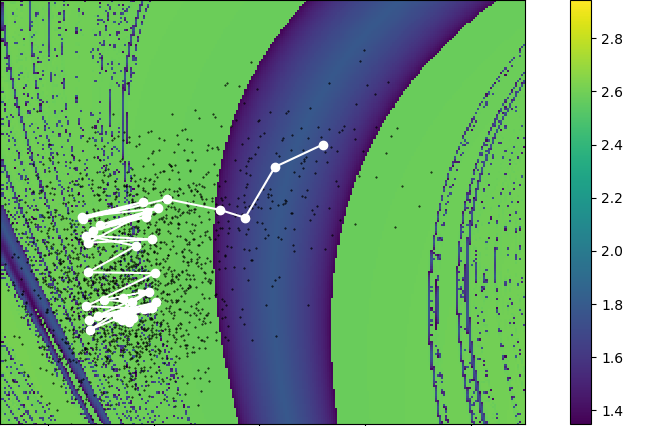
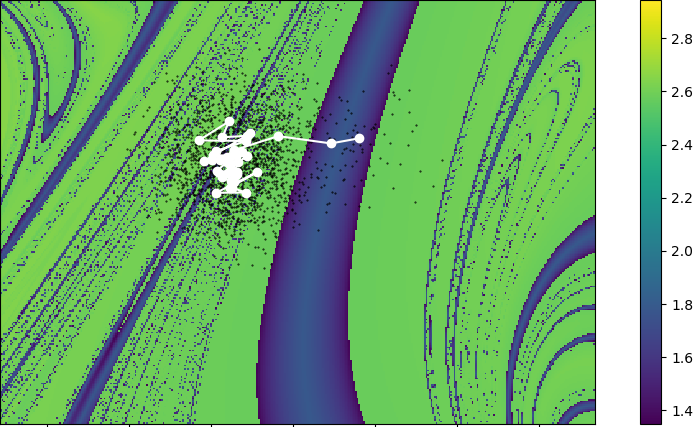
report and figs

diff --git a/report/chapters/4-Search-Strategies.tex b/report/chapters/4-Search-Strategies.tex
@@ -48,7 +48,7 @@ The advantages of ES is outlined in \cite{Karpathy} and can be summarized as fol
     \end{itemize}
     \item Higher robustness.
     \begin{itemize}
-        \item Has fewer hyperparameters. Several hyperparameters that are difficult to set in RL implementations are side-stepped in ES. The details are a little technical / not elaborated in blot post.
+        \item Has fewer hyperparameters. Several hyperparameters that are difficult to set in RL implementations are side-stepped in ES. The details are a little technical / not elaborated in blog post.
     \end{itemize}
 
     \item Structured exploration.
@@ -78,12 +78,12 @@ In conclusion we are interested in ES as an optimization algorithm for LETO sear
 \end{itemize}
 
 \subsection{NES Algorithm}
-In formal terms: Let \(F\) be the objective function with parameters \(\theta\). NES is the population from a distribution over parameters \(p_\psi (\theta)\), with hyperparameters \(\psi\). The procedure is then to optimize the expected objective value \(E_{\theta \sim p_\psi} F(\theta)\) by searching for \(\psi\) with stochastic gradient ascent. The gradient steps are taken with the estimator: \cite{Salimans2017}.
+In formal terms: \emph{``Let F denote the objective function acting on parameters θ. NES algorithms represent the population with a distribution over parameters \(p_\psi (\theta)\)—itself parameterized by $\psi$—and proceed to maximize the average objective value \(E_{\theta \sim p_\psi}\) over the population by searching for $\psi$ with stochastic gradient ascent. Speciﬁcally, using the score function estimator for $\nabla_\psi E_{\theta \sim p_\psi} F(\theta)$, [...] NES algorithms take gradient steps on $\psi$ with the following estimator:''} \cite[p.~2]{Salimans2017}
 \begin{equation}
     \nabla_\psi E_{\theta \sim p_\psi} F(\theta)
     = E_{\theta \sim p_\psi} \{F(\theta)~\nabla_\psi~log~p_\psi(\theta)\}
 \end{equation}
-In our problem, \(F\) is the stochastic score returned by our environment (the Earth-Mars-Sun system) with \(\theta\) representing the policy of an agent in the environment ($\Delta v$ for our spacecraft's path) and \(\psi\) being the parametrization of that policy (launch parameters: angle, velocity, launch-time). The algorithm mutates the launch parameters \(\psi\), checks how the resulting path \(\theta\) performs in the environment \(F\) and moves around the resulting n-dimensional optimization space with gradient descent along its estimated gradient, defined by a normally distributed weighted point cloud \(\epsilon\).
+In our problem, \(F\) is the score returned by our environment (the Earth-Moon or Earth-Mars-Sun system)(required $\Delta v$ for our spacecraft's path) with \(\theta\) representing a single path in the environment and \(\psi\) being the parametrization of that path (example launch parameters: starting position of spacecraft, angle of burn vector at time of maneouver, and magnitude of that burn vector). The algorithm mutates the launch parameters \(\psi\), checks how the resulting path \(\theta\) performs in the environment \(F\) and moves around the resulting n-dimensional optimization space with gradient descent along its estimated gradient, defined by a normally distributed weighted point cloud \(\epsilon\).
 
 \begin{figure}
     \centering
@@ -101,7 +101,17 @@ In our problem, \(F\) is the stochastic score returned by our environment (the E
 
 \end{figure}
 
-In genetic algorithm terms, the input parameters $\psi$ are the genotype, the resultant path $\theta_\psi$ is the phenotype, and the fitness is of course  $F(\theta_\psi)$. \cite{Tomassini2005}
+In genetic algorithm terms, the input parameters $\psi$ are the genotype, the resultant path $\theta_\psi$ is the phenotype, and the fitness is of course  $F(\theta_\psi)$. \cite{Tomassini2005}. Since we simply input $\psi$ to the simulator that delivers $F(\theta_\psi)$, and $\theta$ is not really within the purview of the ES module, we will generally skip $\theta_\psi$, and simply write $F(\psi)$ instead, unless the distinction between geno- and phenotype is relevant. This also reflects the reality more precisely, with regards to our code.
+\subsection{Modifications}
+There are a number of modifications to the core ES idea of gradient descent with an estimated gradient, that are required for the algorithm to actually work in anything but the most ideal context. 
+
+\subsubsection{Fitness Shaping}
+Fitness shaping refers to the transformations one can perform on the output of $F$, generally in order to smoothen the optimization algorithm's movement. One such transformation that was particularly critical for our problem was rank transformation, i.e. for each gradient estimation distribution $F(\psi_t + \sigma\epsilon_i)$, we replace the value of $F_i$ with its index in the sorted list of $F_{0..n}$. This shaping is to prevent outliers from overly influencing the gradient estimate. If a value is extreme in one way or the other, it would otherwise either pull or push the next iteration $\psi_{t+1}$ proportionately. With rank transformation, this sensitivity to the random sampling of $\sigma\epsilon$ largely disappears. \cite{Wierstra2011}. 
+
+Another fitness shaping approach that we tried was subpar sample flattening. Since we are more interested in being pulled \textit{towards} good solutions than being pushed away from bad ones, we ignore the half of the estimation distribution $\sigma\epsilon$ that performs worse than the mean. We tried this both in and out of conjunction with rank transformation, but it did not perform particularly in either case, having a negligible influence.
+
+\subsubsection{Antithetical Sampling}
+Another measure to reduce the impact of variance in the sampling of $\sigma\epsilon$ is antithetical sampling. This means that for every point $\psi_t + \sigma\epsilon_i$ we sample, we evaluate its complement, $\psi_t - \sigma\epsilon_i$ as well. \cite{Salimans2017}. This means that there are always an equal number of points on either side of the distribution, and the estimated gradient is not thrown off by extreme stochastic outcomes in this regard.
 
 
 \section{Fan Search}
@@ -119,7 +129,7 @@ In order to benchmark the performance of our ES implementation, we compared it w
 Since the CPU-bound version of our algorithm takes several seconds to evaluate one fitness function, and the GPU version has had most of the pythonic\footnote{``Pythonic'' is a term often thrown around in the python programming community meaning ``doing things the way that is considered best practice in the Python'' that are in harmony with \href{https://www.python.org/dev/peps/pep-0020/}{The Zen of Python}, see \url{https://docs.python-guide.org/writing/style/}} convenience compromised, we pre-computed the fitness values in a promising cutout of the problem space. The 1024x1024 grid seen in figure \ref{fig:golf_course_s1024} took approximately 40 hours to compute on an HPC node, and with it, we were able to rapidly iterate our algorithm, both for the purpose of running it with multi-start to alleviate randomness, and to test the various potential accuracy and convergence-speed optimizations that have been applied in the literature.
 \begin{figure}[ht]
     \centering
-    \includegraphics[scale=1.0\linewidth]{fig/golf_course_s1024}
+    \includegraphics[width=\linewidth]{fig/golf_course_s1024.png}
     \caption{1024x1024 resolution fitness map of the flattened problem space. A certain fractal quality seems to be present, consistent with \cite{Topputo2014}}
     \label{fig:golf_course_s1024}
 \end{figure}

diff --git a/report/chapters/6-Results.tex b/report/chapters/6-Results.tex
@@ -10,18 +10,53 @@ When we computed the problem space flattened to two dimensions by locking the bu
 
 \begin{figure}[h]
     \centering
-    \includegraphics[width=0.6\linewidth]{fig/ridge_cross_section.png}
-    \caption{The problem space is populated densely by ridges with this approximate cross-section. There are infinitely many of these, if we extrapolate from what we have seen as we have zoomed in.}
-    \label{fig:ridge_cross_section}
+    \subfloat[The approximate cross-section of the ridges]{
+        \includegraphics[width=0.46\linewidth]{fig/ridge_cross_section.png}
+        \label{fig:ridge_cross_section}
+    }
+    \hfill
+    \subfloat[a ridge in the problem space]{
+        \includegraphics[width=0.46\linewidth]{fig/ridge.png}
+        \label{fig:ridge}
+    }
+    \caption{The problem space is populated densely by ridges with the approximate cross-section seen in \ref{fig:ridge_cross_section}. There are infinitely many of these, if we extrapolate from what we have seen as we have zoomed in.}
 \end{figure}
 
-\begin{figure}
+The fractal nature of the space heavily indicates that some variational optimization method would help. If we are to follow ridges of arbitrary width, we need to be able to scale our across-ridge variance down, so most of $\sigma\epsilon$ falls within the ridge we are following. See figure \ref{fig:confusioninfractalarea} and \ref{fig:esdivergingfromridge} for examples of the confusion that we see when we are looking at a fractal area. We did not extend the algorithm with proper variational training, but a 'fake' version of it, with a linearly declining $\sigma$ and a strategically chosen starting point gave us some promising signs. In figure \ref{fig:chilling_on_ridge}, this is implemented, and it lets us stay within the bounds of the ridge. We would need to implement this properly to make any conclusions. 
+
+If a measure like this were added, we could use it as a meaningful stopping criterion as well. Once $\sigma$ is on the order of \num{1e-4} in the 'position' dimension for example, the required precision of the associated maneouvre is in the order of tenths of a second. This is not really a reasonable sensitivity for an actual Moon mission. Thus, when we take reality into account, we see that we can't really use solutions that are too granular. What we are looking for are patches of adjacent good solutions at a large enough scale that they allow \emph{some} flexibility in terms of when the maneouver is begun and how hard we burn.
+
+\begin{figure}[h]
     \centering
-    \includegraphics[width=1.2\linewidth]{fig/consecutivezoom.png}
+    \includegraphics[width=\linewidth]{fig/consecutivezoom.png}
     \caption{Repeated zoom-ins on the problem space show regions of fractal ridges, all but necessitating some adaptive variance measure. }
     \label{fig:consecutivezoom}
 \end{figure} 
 
+\begin{figure}
+    \centering
+    \subfloat[The algorithm experiences confusion when it starts in a fractal area]{
+        \includegraphics[width=0.46\linewidth]{fig/confusioninfractalarea}
+        \label{fig:confusioninfractalarea}
+    }
+    \hfill
+    \subfloat[Here we see the algorithm locating and settling in a ridge]{
+        \includegraphics[width=0.46\linewidth]{fig/findingridge.PNG}
+        \label{fig:findingridge}
+    }
+    \\
+    \subfloat[We see that there is not much of a gradient along the ridges. This might indicate that a momentum-based strategy might be a valuabe addition, if we want to search the ridges properly. CMA-ES is also an interesting prospect, for the same reason.]{
+        \includegraphics[width=0.46\linewidth]{fig/chilling_on_ridge.png}
+        \label{fig:chilling_on_ridge}
+    }
+    \hfill
+    \subfloat[The rate of separation of two infinitesimally perturbed versions of the long LETO]{
+        \includegraphics[width=0.46\linewidth]{fig/EScatchingridge.png}
+        \label{fig:EScatchingridge}
+    }
+    \caption{Examples of some of the different types of transfers that are possible within the model. Each of these were taken as starting points, and simulated again with slightly perturbed starting conditions. The difference between these perturbations were then measured, and plotted in \textbf{b} and \textbf{d}, on a logarithmic scale. The slope of these plots is the lyapunov exponent. We can see that passing into a deep gravity well has a stabilizing effect on the chaos in the system.}
+    \label{fig:lyapunov} 
+\end{figure} 
 
 
 
@@ -44,22 +79,22 @@ A good heuristic for whether or not our paths are precise enough would be a meas
 
 \begin{figure}
     \centering
-    \subfloat[a straight-forward Hohmann transfer]{
-        \includegraphics[width=0.46\linewidth]{fig/path_hohmann_nonin_multi_0_and_3}
+    \subfloat[A straight-forward Hohmann transfer (yellow-red gradient) and its perturbation (black)]{
+        \includegraphics[width=0.46\linewidth]{fig/path_hohmann_nonin_multi_0_and_3.pdf}
         \label{fig:path_hohmann_non-inertial_multi}
     }
     \hfill
-    \subfloat[the rate of separation between infinitesimally perturbed versions of the Hohmann transfer]{
+    \subfloat[The rate of separation between infinitesimally perturbed versions of the Hohmann transfer]{
         \includegraphics[width=0.46\linewidth]{fig/hohmann_slope_0_and_3}
         \label{fig:hohmann_slope}
     }
     \\
-    \subfloat[a relatively long LETO path]{
-        \includegraphics[width=0.46\linewidth]{fig/path_long_leto_nonin_multi_1_and_3}
+    \subfloat[A relatively long LETO path (black) and its perturbation (yellow-red gradient))]{
+        \includegraphics[width=0.46\linewidth]{fig/path_long_leto_nonin_multi_1_and_3.pdf}
         \label{fig:path_long_leto_non-inertial_multi}
     }
     \hfill
-    \subfloat[the rate of separation of two infinitesimally perturbed versions of the long LETO]{
+    \subfloat[The rate of separation of two infinitesimally perturbed versions of the long LETO]{
         \includegraphics[width=0.46\linewidth]{fig/long_leto_slope_1_and_3}
         \label{fig:long_leto_slope}
     }
@@ -71,4 +106,4 @@ Our analysis shows that given an initial perturbation in the order of \num{1e-6}
 
 A more reasonable initial perturbation on the order of \num{1e-8} (one order of magnitude greater than our error tolerance) gives us an uncertainty of less than \SI{2700}{km} after the same 200 days (before we pass the moon, which of course stops one path, and heavily diverges the other). This is very manageable for a spacecraft, since it can adjust for these imprecisions with its guidance thrusters early in the process.
 
-The mean slope for our longer and shorter missions remain the same within a single order of magnitude, (\num{1e-5}-\num{1e-4}), which is encouraging. Our conclusion with regards to the chaos of the system is that it is significant, and will need to be corrected for dynamically in an actual mission, but that it does not invalidate any trajectories that we find, since the aforementioned dynamic corrections are completely covered by modern- (and to an extent, even vintage) spacecraft capabilities.
+The mean slope for our longer and shorter missions remain the same within a single order of magnitude, (\numrange{1e-5}{1e-4}), which is encouraging. Our conclusion with regards to the chaos of the system is that it is significant, and will need to be corrected for dynamically in an actual mission, but that it does not invalidate any trajectories that we find, since the aforementioned dynamic corrections are completely covered by modern- (and to an extent, even vintage) spacecraft capabilities.
